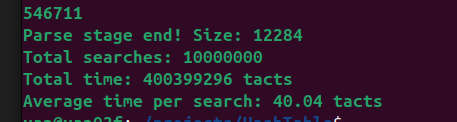
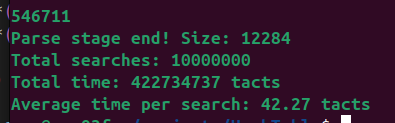
Last README fix

diff --git a/src/main.cpp b/src/main.cpp
@@ -18,7 +18,7 @@ static const char* SHUFFLE_TEST       = "mixed_test.txt";
 static const char* RESULTS_FILE       = "test_results.txt";
 
 int main() {
-    HashTable* ht = HashTableCtor(TABLE_SIZE, GetHashCRC32Default);
+    HashTable* ht = HashTableCtor(TABLE_SIZE, GetHashCRC32Optimize);
     if (ht == NULL) {
         fprintf(stderr, RED("Error in HashTableCtor!\n"));
         return MEMORY_ERROR;

diff --git a/src/HashTable.cpp b/src/HashTable.cpp
@@ -10,7 +10,7 @@ Node* HashTableFind(Node* head, KeyType* find_key) {
     }
     return NULL;
 }
-//*16 + 15 = 31
+
 int MyAsmStrCmp(KeyType* str1, KeyType* str2) {
     assert(str1 != NULL);
     assert(str2 != NULL);

diff --git a/README.md b/README.md
@@ -98,6 +98,8 @@
 
 Данный вид хеширования показал себя намного лучше всех предыдущих, мы видим, как уменьшилось среднее значение коллизий, однако всё ещё есть большие столбики на диаграмме, что показывает не совсем равномерное хеширование.
 
+<img align="center" width="600" height="360" src="img/Polynomial.png">
+
 <details>
   <summary>Посмотреть исходный код хеш-функции</summary>
     
@@ -114,8 +116,6 @@
     }
 
 </details>
-
-<img align="center" width="600" height="360" src="img/Polynomial.png">
 
 # DJB2
 
@@ -318,8 +318,7 @@ int MyAsmStrCmp(KeyType* str1, KeyType* str2) {
         __m128i xmm2 = _mm_loadu_si128((__m128i*)(s2 + i));
         __m128i cmp  = _mm_cmpeq_epi8(xmm1, xmm2);
 
-        if (_mm_movemask_epi8(cmp) != 0xFFFF) 
-            return 1; 
+        if (_mm_movemask_epi8(cmp) != 0xFFFF) return 1; 
     }
 
     for (; i < len1; ++i) {
@@ -406,7 +405,7 @@ my_strlen:
 
 <img align="center" width="600" height="175" src="img/ogo.png">
 
-Таким образом, при использовании двух оптимизаций, удалось добиться ускорения программы в $k = \frac{6142775058}{400399296} \approx 15.34$ раз относительно самой первой версии!
+Таким образом, при использовании двух оптимизаций, удалось добиться ускорения программы в $k = \frac{6142775058}{422734737} \approx 14.53$ раз относительно самой первой версии!
 
 Помимо всего, было предложено запустить программу с флагом компиляции `-O3` и посмотреть, удалось ли хоть немного приблизиться к нему. На моё удивление результаты тестов для такого запуска оказались весьма близки к моим, полученным ранее:
 
@@ -440,9 +439,9 @@ Vendor ID:                GenuineIntel
 
 В ходе работы была написана и оптимизирована хеш-таблица с методом цепочек, был проведён анализ различных хеш-функций. С помощью различных видов оптимизаций код стал немного менее читаемым, однако это хорошо сказалось на времени работы программы.
 
-Наибольшее ускорение относительно базовой версии - $\frac{6142775058}{400399296} \approx 15.3$. Всего была написана 31 строчка на ассемблере/с использованием интринсиков. Также был подсчитан так называемый **коэффициент оптимизации**, он составил:
+Наибольшее ускорение относительно базовой версии - $\frac{6142775058}{422734737} \approx 14.53$. Всего была написана 31 строчка на ассемблере/с использованием интринсиков. Также был подсчитан так называемый **коэффициент оптимизации**, он составил:
 
-$\alpha = \frac{общее \text{ } ускорене}{количество \text{ } ассемблерных \text{ } строк} \cdot 100 = \frac{15.3}{31} \cdot 100 \approx 49.4$
+$\alpha = \frac{общее \text{ } ускорене}{количество \text{ } ассемблерных \text{ } строк} \cdot 100 = \frac{14.53}{31} \cdot 100 \approx 46.87$
 
 # **Список литературы и других источников**
 
